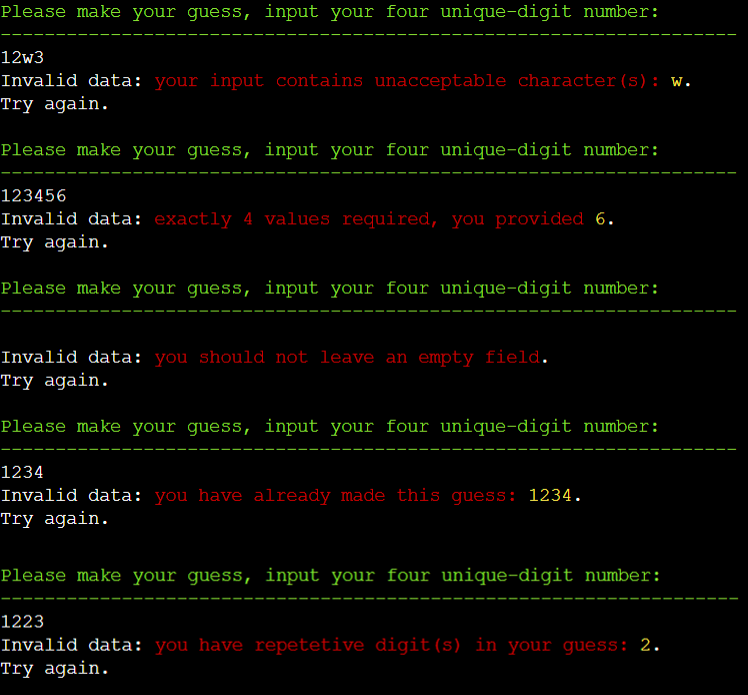
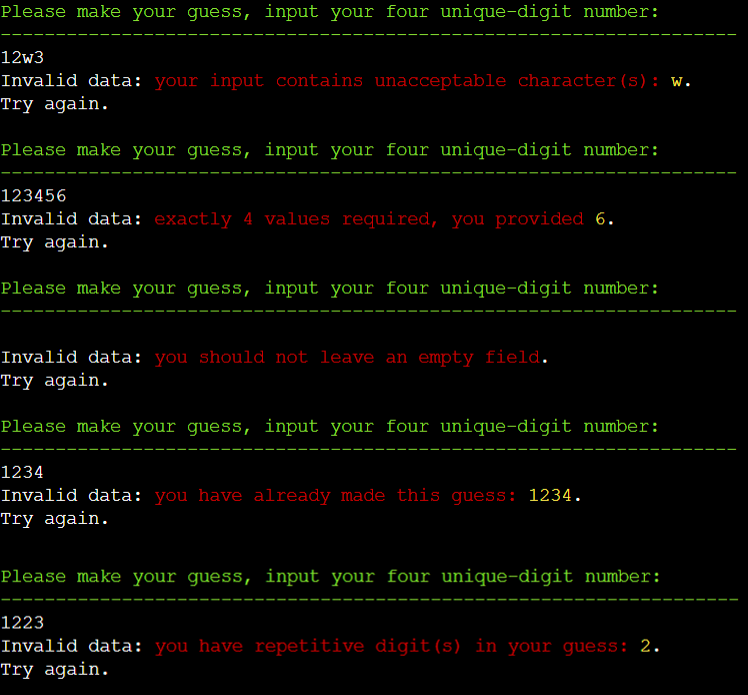
Fix minor spelling mistake in exceptions.png file

Changed region(s): [[0.0, 0.8158, 0.984, 0.9971], [0.2767, 0.9065, 0.615, 0.9367], [0.6765, 0.9065, 0.8917, 0.9367]]

diff --git a/run.py b/run.py
@@ -248,7 +248,7 @@ def main():
     print()
     print(WIN_BCOLOR + 'Congratulations! You win!!!' + RESET_ALL)
     print('''-------------------------------------------------------------------
-Input Y if you want to play again. To quit the game input N. 
+Input Y if you want to play again. To quit the game input N.
 Input field supports upper and lower case.
 -------------------------------------------------------------------''')
     while True:

diff --git a/README.md b/README.md
@@ -54,6 +54,7 @@ number (i.e., four bulls).
     1. [Content](#content)
     2. [Media](#media)
     3. [Code](#code)
+8. [Acknowledgements](#acknowledgements)
 
 ## User Experience (UX)
 
@@ -190,7 +191,7 @@ Guess class has also show_all_scores method that generates a dictionary of guess
 
 - [PEP8 online check](http://pep8online.com/) was used to validate the Python code.
 
-- [Colorama](https://pypi.org/project/colorama/) library was used to apply color to the terminal text. 
+- [Colorama](https://pypi.org/project/colorama/) library was used to apply color to the terminal text.
 
 - [Diagrams.net](https://app.diagrams.net/) was used to create the program flowchart.
 
@@ -320,5 +321,15 @@ These instructions should help you create a local copy of a code repository usin
 ### Code
 
 - Hints from [ChatGPT](https://chat.openai.com/) helped me fix minor errors (E501: line too long, and E128: continuation line under-indented for visual indent) in my code.
+
+## Acknowledgements
+
+- My partner for her unwavering love, support, and encouragement throughout this project. Her belief in me has been a driving force, and I could not have done it without her.
+
+- My tutor, Marcel, for his priceless feedback and guidance.
+
+- Code Institute and their fantastic Slack community for their constant support and providing me with the essential knowledge and resources that I needed to successfully finish this project.
+
+
 
 [Back To The Table of Contents ⇧](#table-of-contents)
